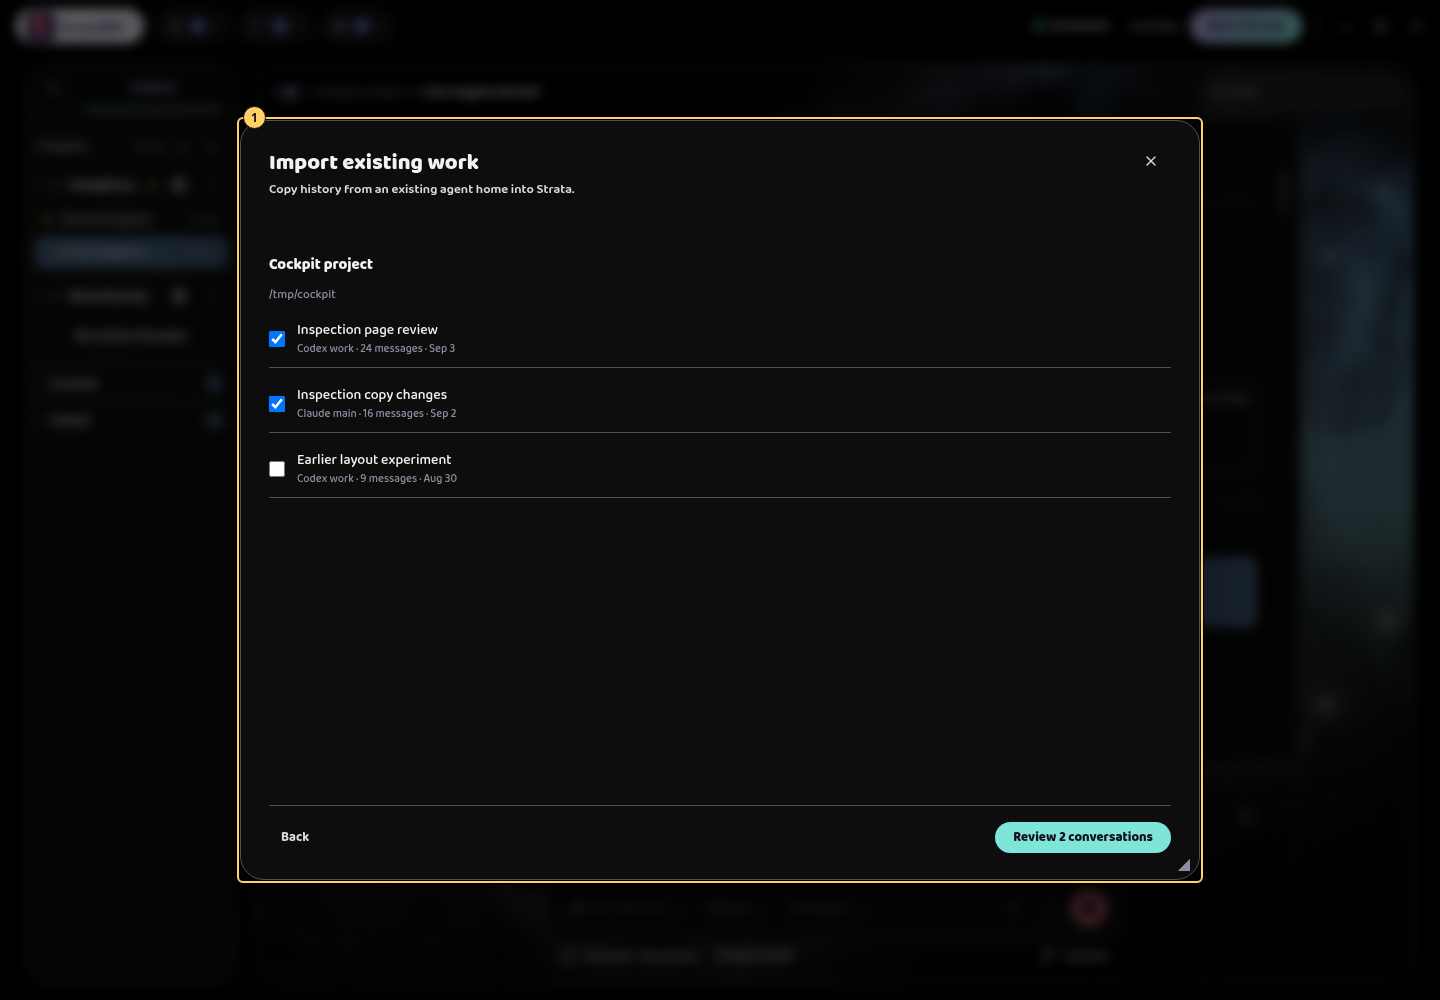
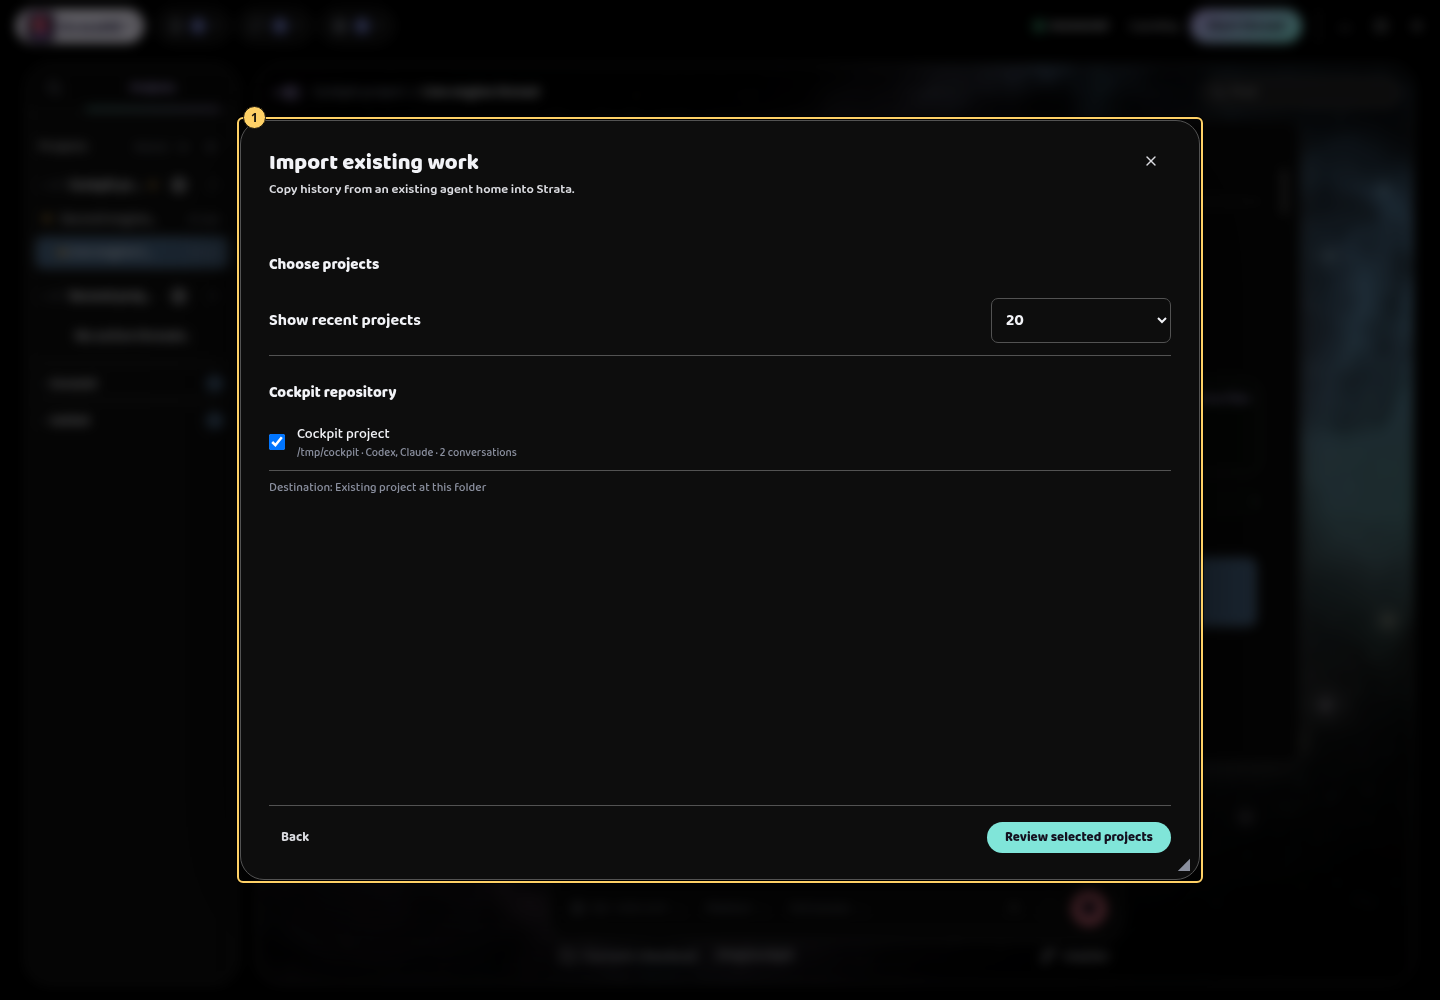
docs: align import benchmarks with project-level engine contracts

diff --git a/docs/design/t3-additions-2026-09-08/v2/proposals.js b/docs/design/t3-additions-2026-09-08/v2/proposals.js
@@ -143,13 +143,13 @@ window.Proposals = (() => {
   function importFlow(state){
     const row=(name,detail,checked=true)=>`<label class="proposal-import-row"><input type="checkbox" ${checked?'checked':''}><span>${name}<small>${detail}</small></span></label>`;
     let title='Import existing work',body='',footer=button('Cancel','sources');
-    if(state==='sources'){body='<fieldset class="setup-fields"><h3>Choose local agent homes</h3>'+row('Codex work','~/.codex · Codex')+row('Claude main','~/.claude · Claude')+note('Strata reads the selected histories on the engine computer. Importing does not start an agent.')+'</fieldset>';footer+=button('Find conversations','select',true);}
-    if(state==='select'){body='<fieldset class="setup-fields"><h3>Cockpit project</h3>'+note('/tmp/cockpit')+row('Inspection page review','Codex work · 24 messages · Sep 3')+row('Inspection copy changes','Claude main · 16 messages · Sep 2')+row('Earlier layout experiment','Codex work · 9 messages · Aug 30',false)+'</fieldset>';footer=button('Back','sources')+button('Review 2 conversations','confirm',true);}
-    if(state==='confirm'){body='<div class="proposal-stack"><h3>2 conversations in Cockpit project</h3><p>Import 40 messages and their available attachments into a copy of the history.</p>'+note('Source histories stay where they are. Import does not create a live sync or resume either agent.')+status('The project already exists in Strata. Imported conversations will be added to it.')+'</div>';footer=button('Back','select')+button('Import conversations','progress',true);}
-    if(state==='progress'){body='<div class="proposal-stack"><h3>Importing 2 conversations</h3>'+quota('Progress',50,'1 of 2 complete')+note('Reading Inspection copy changes… You can keep using Strata while import finishes.')+'</div>';footer=button('View completed result','done',true);}
-    if(state==='partial'){body='<div class="proposal-stack"><h3>1 imported · 1 needs attention</h3>'+status('Inspection copy changes could not be read from ~/.claude/projects/cockpit. The imported conversation is ready to open.','error')+note('Retry skips conversations already imported.')+'</div>';footer=button('Open imported work','done')+button('Retry failed import','progress',true);}
-    if(state==='done'){body='<div class="proposal-stack"><h3>2 conversations imported</h3>'+status('Inspection page review and Inspection copy changes are now in Cockpit project.','good')+note('No agent was started. Open a conversation to review its history before continuing it.')+'</div>';footer=button('Import more','sources')+button('Open Cockpit project','drafts/markers',true);}
-    dialog(title,'Copy history from an existing agent home into Strata.',body,footer,'New import flow inside Strata’s existing setup dialog');
+    if(state==='sources'){body='<fieldset class="setup-fields"><h3>Find native agent history</h3>'+note('The engine searches its configured Codex and Claude sources. Import copies history without starting an agent.')+'</fieldset>';footer+=button('Find projects','select',true);}
+    if(state==='select'){body='<fieldset class="setup-fields"><h3>Choose projects</h3>'+select('Show recent projects',['20','50','100'])+'<h3>Cockpit repository</h3>'+row('Cockpit project','/tmp/cockpit · Codex, Claude · 2 conversations')+note('Destination: Existing project at this folder')+'</fieldset>';footer=button('Back','sources')+button('Review selected projects','confirm',true);}
+    if(state==='confirm'){body='<div class="proposal-stack"><h3>2 conversations across 1 project</h3><p>All available history for each selected folder will be imported. Source history stays where it is. This is a one-time copy.</p>'+status('Cockpit project · /tmp/cockpit<br>Destination: Cockpit project')+'</div>';footer=button('Back','select')+button('Import conversations','progress',true);}
+    if(state==='progress'){body='<div class="proposal-stack"><h3>Importing projects</h3><p>0 of 1 projects complete</p><progress aria-label="Importing Cockpit project"></progress>'+note('Importing /tmp/cockpit. Counts update when the project finishes.')+'</div>';footer='';}
+    if(state==='partial'){body='<div class="proposal-stack"><h3>1 imported · 1 project needs attention</h3>'+status('/tmp/inspection-copy could not be read. Permission denied. The imported conversation is ready to open.','error')+note('Retry skips successful projects and conversations already imported.')+'</div>';footer=button('Open imported work','done')+button('Retry failed import','progress',true);}
+    if(state==='done'){body='<div class="proposal-stack"><h3>2 conversations imported</h3><p>0 unchanged conversations skipped</p>'+status('Imported work is available in Projects. No agent was started.','good')+'</div>';footer=button('Import more','sources')+button('Open imported work','drafts/markers',true);}
+    dialog(title,'Copy history from an existing agent home into Strata.',body,footer,'Project import inside Strata’s existing setup dialog');
   }
   function evidence(state){
     if(state==='preview'){

diff --git a/docs/reviews/t3-additions-document-preview-contracts-2026-09-08.md b/docs/reviews/t3-additions-document-preview-contracts-2026-09-08.md
@@ -1,0 +1,53 @@
+# PDF and HTML document preview audit
+
+Read-only inspection of pinned upstream `08463e2c401ce87858aaaebcb70ed86fb002fb5f`, current Strata sources, v2 benchmark and official Electron/PDF.js docs. No dependency installation, repository edits or owner-file reads.
+
+## Outcome
+
+Use the existing preview window and tab conventions, with an actual PDF.js page renderer behind Strata's document toolbar. Reuse the guest WebContentsView isolation for HTML, but give attachment documents their own isolated session and serving policy. Keep source mode plain escaped text. Upstream itself uses Chromium's native PDF iframe and does not provide custom pagination/zoom implementation to copy.
+
+The v2 `docs/design/t3-additions-2026-09-08/v2/proposals.js:85` toolbar has minus, 100%, plus, '1 of 3', Next page, filename, Read only, Open externally. `benchmark-guide.md` explicitly states the PDF is a layout fixture and pagination/zoom still need implementation. A screenshot of that fixture or buttons changing only labels do not meet feature13.
+
+## Exact upstream behavior
+
+`apps/web/src/components/files/FilePreviewPanel.tsx:206` defines `BrowserDocumentFrame`. PDF uses an unsandboxed iframe because Chromium's native viewer requires it. HTML uses iframe sandbox `allow-scripts allow-forms allow-popups allow-modals`, deliberately omitting allow-same-origin. This upstream comment is not justification to place arbitrary PDF-named HTML in Strata's privileged renderer origin.
+
+`AttachmentBrowserPreview` requests `assets.createUrl` resource `{_tag:'attachment', attachmentId, fileName, mimeType, disposition:'inline'}`. `WorkspaceBrowserPreview` requests workspace-file for files inside the workspace and media-file for exact files outside it. `apps/web/src/assets/assetUrls.ts` resolves relative signed URLs against the selected environment's HTTP base, models loading/failure, and provides refresh. `packages/contracts/src/assets.ts` defines resource/result contracts; result has relativeUrl, expiresAt, optional sourcePath/imageDimensions.
+
+`apps/server/src/assets/AssetAccess.ts` signs asset access, one-hour normal TTL. Attachment inline document MIME is derived from the server-owned attachment id extension (pdf/html/htm), not merely claimed client MIME. Generic files otherwise download. Workspace preview tokens support approved sibling assets; media-file tokens refer to a single exact host file. Do not turn that into an arbitrary directory grant.
+
+`apps/server/src/http.ts:54` applies HTML CSP `sandbox allow-scripts allow-forms allow-popups allow-modals`, in addition to the iframe sandbox. Its asset responses include nosniff. This creates an opaque HTML origin even when opening the signed asset directly. Asset authorization is scoped through the signed URL; bearer/DPoP credentials must not enter document DOM, query parameters or guest storage. URLs are capability secrets and should not be logged or persisted as durable attachment identity.
+
+No PDF.js dependency or custom PDF page count/zoom code was found in upstream apps/web/package.json or FilePreviewPanel. Native viewer controls are Chromium-owned. Electron webContents exposes page zoom and printing APIs, but no documented PDF document page/count controller. URL fragments/native shadow DOM are not a reliable basis for Strata's custom toolbar.
+
+## Concrete Strata reuse and required changes
+
+- `src/main/preview/host.ts:274` already creates WebContentsView with contextIsolation, sandbox, all Node integrations disabled, no preload, no webview tag. Reuse creation/lifecycle/bounds/tab machinery. Guest policies in `guest-policy.ts` deny permissions except fullscreen and downloads, and reject non-http popup targets.
+- Existing guest partition is derived from workingFolder and intended for persistent browsing. Attachment HTML should use a separate non-persistent document partition, with deny-all permissions, no popups/new-window navigation and no access to browsing cookies. Do not give this guest Strata preload or custom internal protocols.
+- `src/main/local-link.ts` currently resolves only HTML and Markdown. `host.ts:925` only allows existing local .html/.htm or HTTP(S). Adding .pdf to a filename allowlist alone does not create page controls or attachment handling. Model document tabs explicitly or route attachment document mode through the existing preview window shell rather than weakening generic navigation guards.
+- `src/main/engine/client.ts` already calls T3_RPC.createAssetUrl for saved-comment attachments. Add a bounded authenticated main-process document read resolving a selected attachment's exact id/metadata against the current engine identity. Keep original binary bytes from feature3; never PDF -> file.text(). Make pending local staged attachments open without requiring premature upload.
+- `src/main/protocols.ts` existing visual protocol serves only image/evidence ids with restrictive CSP. Do not relax that image protocol for arbitrary HTML. A separate document resource handler must validate opaque document id/engine identity and content type, enforce byte limits and isolate privileges. HTML response CSP belongs at response level so direct navigation cannot bypass iframe attributes.
+- `src/renderer/index.html` shell CSP currently limits connect-src to self/app. Main-resolved PDF bytes avoid exposing bearer headers or widening shell access to arbitrary remote engine origins. A packaged PDF.js worker needs narrow worker-src/bundled asset support, not global unsafe-eval or remote CDN scripts.
+
+Minimal implementation: one read-only document model with filename, original identity, kind, loading/error, PDF page/count/zoom or HTML preview/source. Reuse tab/window presentation. PDF renderer gets bounded Uint8Array through existing typed IPC; HTML renders only in an isolated guest, source mode in escaped read-only text. Open externally should use the explicitly selected original local file or a durable downloaded copy with clear failure handling; never hand an expiring authenticated URL to an arbitrary external app as the only durable reference.
+
+## PDF.js choice and mechanics
+
+Official [PDF.js examples](https://mozilla.github.io/pdf.js/examples/) demonstrate getDocument, getPage and canvas rendering with scaled viewport. Use PDFDocumentLoadingTask.promise, document.numPages, getPage(currentPage), getViewport({scale}) and page.render(...). Scale canvas backing dimensions for devicePixelRatio separately from UI zoom. Next/previous changes the rendered page; zoom changes viewport dimensions and rendering. Cancel or serialize prior render tasks before rendering again on the same canvas. Destroy loading task/document/worker when tab closes or source changes.
+
+Official [API documentation](https://mozilla.github.io/pdf.js/api/draft/module-pdfjsLib.html) supports Uint8Array data, worker, resource URLs and image-area limits. Data may transfer to the worker; send a dedicated copy rather than transferring a buffer still owned by staging. Package worker and needed fonts/CMaps/WASM locally. Bound canvas area and one/few active pages rather than rendering every page eagerly. Handle corrupt, password-protected and unsupported PDFs as actual errors. A canvas-only baseline can show pages and toolbar but has no selectable/searchable text; add the supported text layer when required, and do not claim those features otherwise.
+
+Official registry metadata fetched to `/tmp/strata-pdfjs-metadata.json` currently reports pdfjs-dist 6.3.289, Apache-2.0, Node >=22.13.0 or >=24. This is a candidate pin, not installation approval or compatibility proof. Confirm Strata's build/runtime compatibility and package worker import using that exact version. PDF.js generated scripts must remain in worker/viewer isolation; keep XFA disabled and do not add annotation scripting/interactive form execution to a read-only feature. Preserve Apache license/notice files in distribution. [Official package metadata](https://registry.npmjs.org/pdfjs-dist/latest).
+
+If avoiding a new dependency is mandatory, native PDF viewer can deliver functioning built-in controls with Chromium's toolbar, but it cannot honestly be described as the approved custom page/zoom toolbar. That would be a design deviation requiring an explicit decision rather than a fake adapter.
+
+## Meaningful verification
+
+1. Generate a real three-page PDF fixture with visually distinct text/colors on every page. In Electron, open original staged bytes; prove page count 3, initial page content, next page visibly different, boundaries disabled, and zoom changes canvas size/rendered content while page identity stays fixed. Save evidence matching files-pdf only after real render completion.
+2. Test rapid next/zoom/tab close during loading; stale promises must not replace a newly opened document or leak workers. Include corrupt/missing/password-required fixture errors, not only successful placeholders.
+3. HTML fixture should run a harmless script proving it rendered, then attempt access to window.strata, require, parent document, shell origin storage, browsing-session cookies, privileged custom protocols and popup navigation. Assert they are absent/blocked and app remains intact. Source mode must display literal script markup without executing it.
+4. Verify local HTML sibling assets only within intended scope; remote attachment has no implicit workspace sibling access. Test path traversal/symlink canonicalization for any added local resource handler. Mocking a URL string alone does not prove authorization.
+5. Test actual signed attachment HTTP response MIME/disposition and expired signature refresh using an isolated engine. Preserve origin/engine identity across retry and reject stale results after switching engines. Do not log capability URLs.
+6. Verify opening/closing document mode does not change existing browser tabs, preview automation host or download policy. Coordinate host changes with feature8 implementer and run focused existing preview specs plus full final gate after integration.
+
+No runtime PDF or HTML verification was executed in this audit.

diff --git a/docs/design/t3-additions-2026-09-08/v2/benchmark-guide.md b/docs/design/t3-additions-2026-09-08/v2/benchmark-guide.md
@@ -84,3 +84,7 @@ The existing gallery service serves this directory tree at port 43871. Re-runnin
 ## Model option contract correction
 
 The numeric maximum-output example was replaced with T3-supported select and boolean controls: Reasoning effort and Fast mode. The invalid state shows an unsupported stored value and prevents saving. The model editor retains the approved layout and uses Strata's existing Switch. This corrects the fixture to the actual provider contract; it does not add a numeric option type or change the saved owner approval.
+
+## Import contract correction
+
+T3 discovers and imports by project folder. The import fixtures now select repository-grouped projects and show explicit destinations. They do not offer unsupported individual-conversation or provider-home filters. Progress counts completed projects and stays indeterminate within a project. The approved Strata dialog and row styling remain the benchmark.
